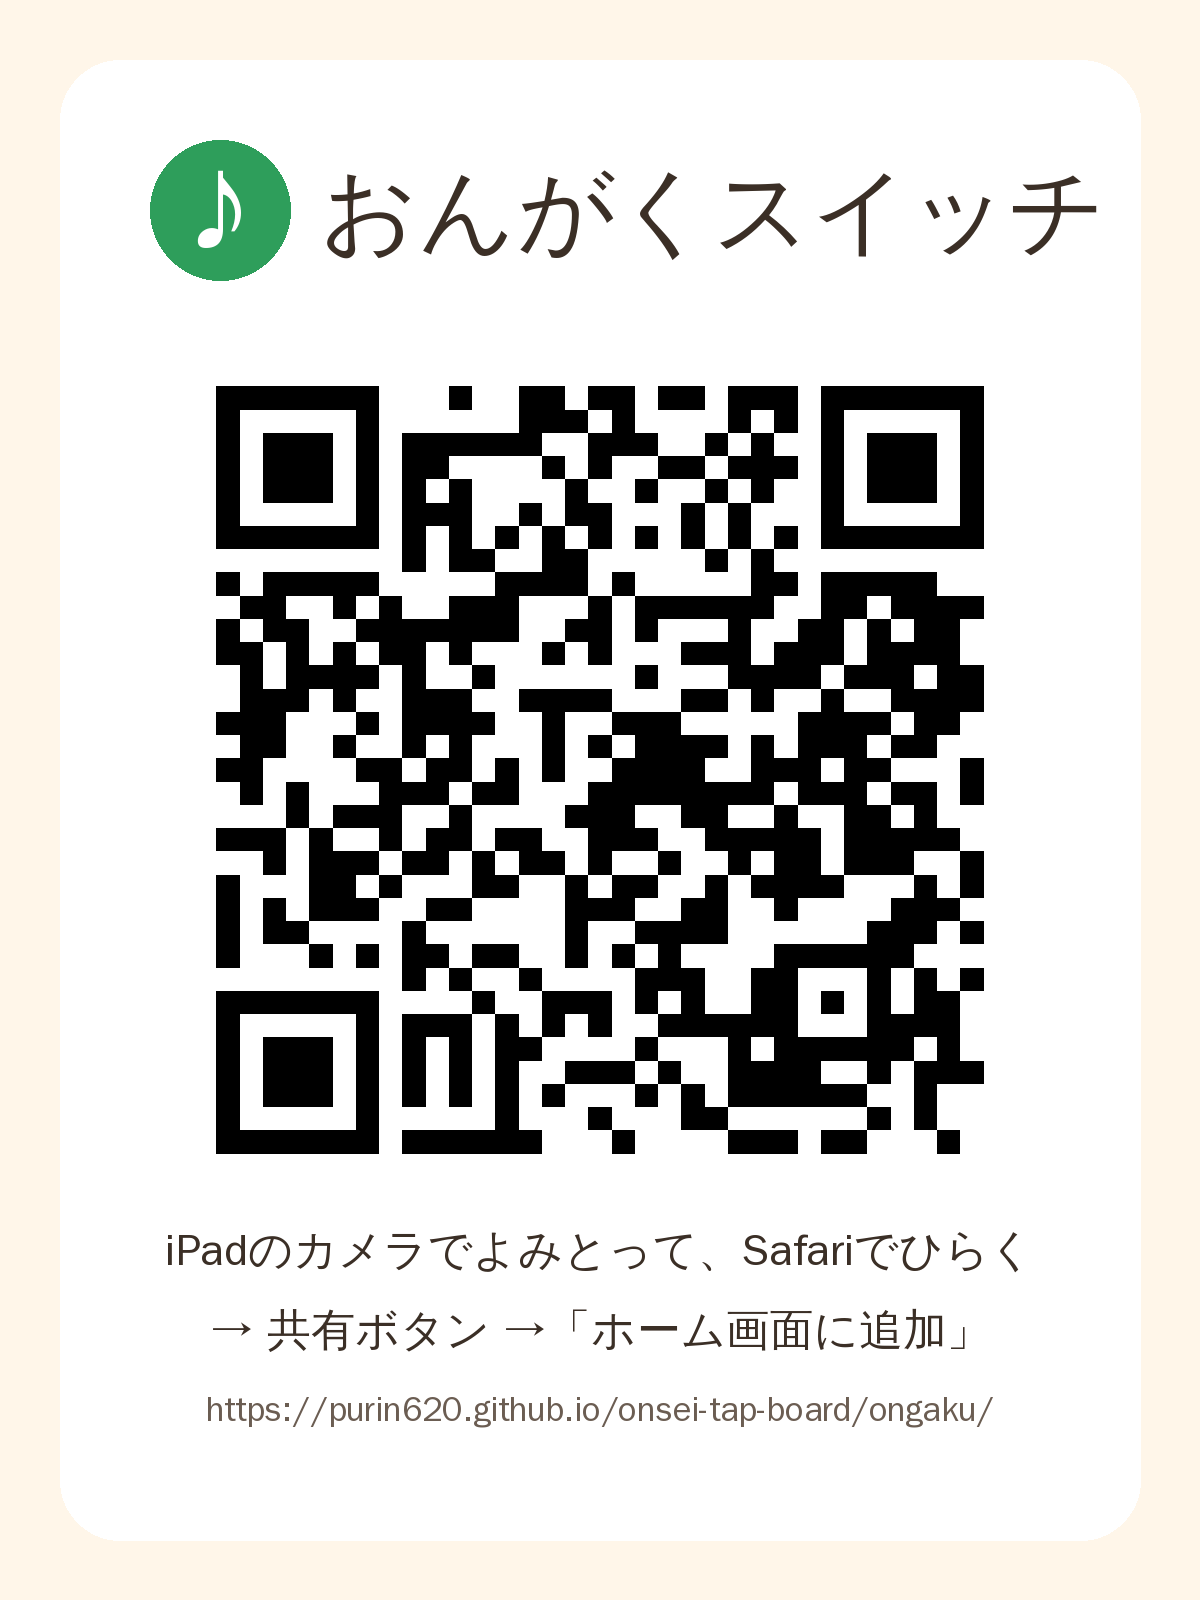
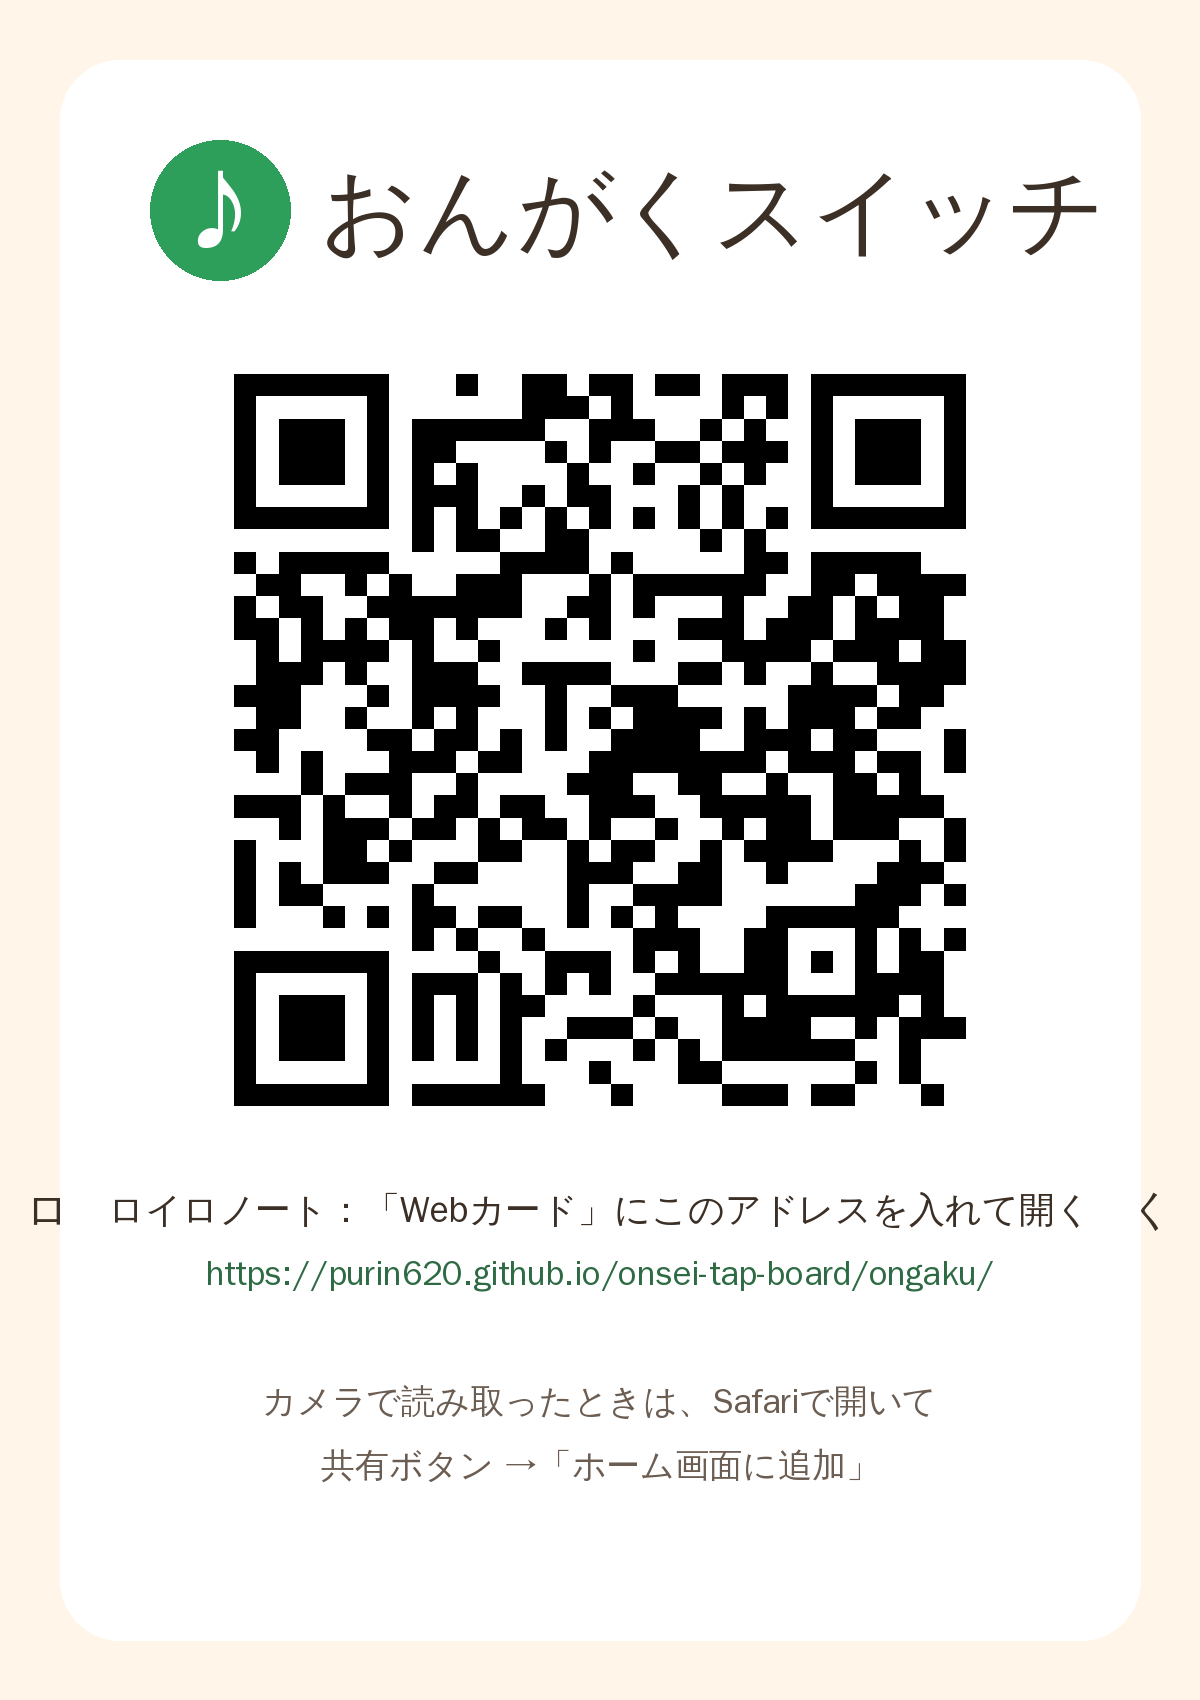
Safariが使えない端末（ロイロノートで開く）に対応
- ファイル保存は共有シートを先に試し、だめならダウンロード
- 記録一覧を画面に表示してコピーできるようにした
- アプリの中のブラウザで開いたときに開始画面で案内
- 起動が終わるまで学習スタートを押せないようにした
- ロイロノートでの開き方を導入手順・QRカードに追記

Claude-Session: https://claude.ai/code/session_01TQbS8yvS6roj2yWssYE9fH

diff --git a/ongaku/js/records.js b/ongaku/js/records.js
@@ -1,7 +1,7 @@
 // 学習記録：一覧・グラフ・CSV出力
 import * as DB from './db.js';
 import { S, MODES, OBS, FUNCS, esc, toast, scheduleSave } from './app.js';
-import { saveFile, confirmDlg, fmtDate, fmtClock, dayKey } from './ui.js';
+import { saveFile, confirmDlg, fmtDate, fmtClock, dayKey, showTextForCopy } from './ui.js';
 
 const EV_LABEL = {
   input: 'スイッチ入力', play: '再生', stop: '停止', 'auto-stop': '自動停止', next: '曲送り', prev: '前の曲',
@@ -70,8 +70,9 @@ export async function renderRecords(body, { rerender }) {
     <div class="field">
       <button class="btn" data-act="csv">記録一覧をCSVで保存</button>
       <button class="btn" data-act="csvlog">操作ログをCSVで保存</button>
+      <button class="btn small" data-act="csvtext">記録一覧を画面に表示（コピー用）</button>
     </div>
-    <p class="note">CSVはExcelで開けます（文字化けしない形式）。iPadでは「ファイル」アプリの「ダウンロード」に入ります。</p>
+    <p class="note">CSVはExcelで開けます（文字化けしない形式）。共有の画面が出たら「"ファイル"に保存」などを選びます。ロイロノートの中で開いていて保存できないときは「画面に表示（コピー用）」を使ってください。</p>
   </div>
   <div class="sec"><h3>回数の推移（記録のある日、新しい14日分）</h3>
     ${dayRows.length ? chartHtml(dayRows.slice(0, 14).reverse()) : '<p class="empty">まだ記録がありません。</p>'}
@@ -94,6 +95,10 @@ export async function renderRecords(body, { rerender }) {
     if (a) {
       if (a.dataset.act === 'csv') await exportCsv(list);
       if (a.dataset.act === 'csvlog') await exportLogCsv(list);
+      if (a.dataset.act === 'csvtext') {
+        if (!list.length) { toast('記録がありません'); return; }
+        await showTextForCopy('記録一覧（CSV）', csvText(summaryRows(list)));
+      }
       return;
     }
     // 観察記録の ＋／−
@@ -227,14 +232,18 @@ function csvCell(v) {
   const s = String(v ?? '');
   return /[",\n\r]/.test(s) ? '"' + s.replace(/"/g, '""') + '"' : s;
 }
+function csvText(rows) { return rows.map((r) => r.map(csvCell).join(',')).join('\r\n'); }
 function csvBlob(rows) {
-  const text = rows.map((r) => r.map(csvCell).join(',')).join('\r\n');
-  return new Blob(['' + text], { type: 'text/csv;charset=utf-8' }); // BOM付き＝Excelで文字化けしない
+  return new Blob(['' + csvText(rows)], { type: 'text/csv;charset=utf-8' }); // BOM付き＝Excelで文字化けしない
 }
 function stamp() { const d = new Date(); return `${d.getFullYear()}${String(d.getMonth() + 1).padStart(2, '0')}${String(d.getDate()).padStart(2, '0')}`; }
 
 async function exportCsv(list) {
   if (!list.length) { toast('記録がありません'); return; }
+  await saveFile(csvBlob(summaryRows(list)), `おんがくスイッチ_記録一覧_${stamp()}.csv`);
+}
+
+function summaryRows(list) {
   const head = ['児童', '実施日', '開始時刻', '終了時刻', '学習時間（分）', '学習モード', 'プレイリスト', 'スイッチ入力回数', '有効な操作回数', '再生回数', '停止回数', '自動停止回数', '曲送り回数', '再生した曲', ...OBS.map(([, l]) => l), 'メモ'];
   const rows = [head];
   for (const ses of [...list].sort((a, b) => a.startAt - b.startAt)) {
@@ -243,7 +252,7 @@ async function exportCsv(list) {
       m.inputs, m.valid, m.plays, m.stops, m.autoStops, m.nexts, Object.entries(m.songs).map(([n, c]) => `${n}(${c})`).join(' / '),
       ...OBS.map(([k]) => (ses.obs && ses.obs[k]) || 0), ses.memo || '']);
   }
-  await saveFile(csvBlob(rows), `おんがくスイッチ_記録一覧_${stamp()}.csv`);
+  return rows;
 }
 
 async function exportLogCsv(list) {

diff --git a/ongaku/js/ui.js b/ongaku/js/ui.js
@@ -32,9 +32,23 @@ export function promptDlg(title, value = '', placeholder = '') {
   }).then((v) => (v ? v : null));
 }
 
-// ファイルとして保存（iPadでは「ファイル」アプリの「ダウンロード」に入る。共有シートが使えればそちらも可）
+// ファイルとして保存
+// ・共有シートが使えるとき（iPad / iPhone）：共有シートを出す →「"ファイル"に保存」やロイロノートへ送れる
+// ・使えないとき：ダウンロード（iPadでは「ファイル」アプリの「ダウンロード」フォルダ）
 export async function saveFile(blob, filename) {
-  const file = typeof File === 'function' ? new File([blob], filename, { type: blob.type }) : null;
+  let file = null;
+  try { file = new File([blob], filename, { type: blob.type || 'application/octet-stream' }); } catch { /* 古い環境 */ }
+  if (file && navigator.canShare && navigator.share) {
+    try {
+      if (navigator.canShare({ files: [file] })) {
+        await navigator.share({ files: [file], title: filename });
+        return 'shared';
+      }
+    } catch (e) {
+      if (e && e.name === 'AbortError') return 'cancel'; // 先生がとじた
+      // 時間がかかって共有シートが出せなかったときなどは、ダウンロードに切り替える
+    }
+  }
   const url = URL.createObjectURL(blob);
   const a = document.createElement('a');
   a.href = url; a.download = filename;
@@ -42,7 +56,23 @@ export async function saveFile(blob, filename) {
   a.click();
   a.remove();
   setTimeout(() => URL.revokeObjectURL(url), 60000);
-  return file;
+  return 'download';
+}
+
+// 文字を画面に表示してコピーできるようにする（ファイルの保存ができない環境むけ）
+export function showTextForCopy(title, text) {
+  return dialog(`<h3>${esc(title)}</h3>
+    <p class="note">ファイルとして保存できないときに使います。「コピー」を押して、Excel・Numbers・ロイロノートのテキストカードなどに貼り付けてください。</p>
+    <textarea readonly style="height:40vh;font-family:ui-monospace,Menlo,monospace;font-size:13px">${esc(text)}</textarea>
+    <div class="foot"><button class="btn" data-close="">とじる</button><button class="btn primary" data-copy>コピー</button></div>`,
+  (box) => {
+    const ta = box.querySelector('textarea');
+    box.querySelector('[data-copy]').addEventListener('click', async (e) => {
+      try { await navigator.clipboard.writeText(text); }
+      catch { ta.focus(); ta.select(); try { document.execCommand('copy'); } catch { /* 手動でコピー */ } }
+      e.target.textContent = 'コピーしました';
+    });
+  });
 }
 
 export function fmtTime(sec) {

diff --git a/ongaku/index.html b/ongaku/index.html
@@ -44,11 +44,12 @@
     </label>
     <div id="startInfo" class="info"></div>
     <p id="startNoSongs" class="warn" hidden>まだ曲がありません。「先生用の設定」→「音楽」から曲を追加してください。</p>
-    <button id="startGo" class="go" type="button">学習スタート</button>
+    <button id="startGo" class="go" type="button" disabled>学習スタート</button>
     <div class="sub">
       <button id="startSettings" type="button">先生用の設定</button>
       <button id="startFull" type="button" hidden>全画面にする</button>
     </div>
+    <p id="startInApp" class="hint" hidden>ロイロノートなどのアプリの中で開いています。インターネットにつながっているときに使ってください。曲や記録は、このアプリの中に保存されます。</p>
     <p class="hint">学習中に設定を開くときは、画面の右下の歯車を1.5秒ほど長押しします。</p>
   </div>
 </section>

diff --git a/ongaku/js/app.js b/ongaku/js/app.js
@@ -4,7 +4,7 @@ import { Player } from './player.js';
 import { InputManager } from './input.js';
 import { sampleFiles } from './samples.js';
 
-export const VERSION = '1.2.0';
+export const VERSION = '1.3.0';
 
 // ---- 学習モード・機能の名前 -------------------------------------------
 export const MODES = {
@@ -596,6 +596,8 @@ export function renderStart() {
   const sel = $('#startStudent');
   sel.innerHTML = S.students.map((x) => `<option value="${x.id}" ${x.id === s.studentId ? 'selected' : ''}>${esc(x.name)}</option>`).join('');
   $('#startGo').disabled = !list.length;
+  // Service Worker が使えない＝ロイロノートなどアプリの中のブラウザで開いている可能性が高い
+  $('#startInApp').hidden = 'serviceWorker' in navigator;
   $('#startNoSongs').hidden = !!list.length;
 }
 

diff --git a/ongaku/sw.js b/ongaku/sw.js
@@ -1,6 +1,6 @@
 // オフライン用：アプリの部品を端末に保存しておき、通信がなくても開けるようにする。
 // アプリを更新したときは VERSION の数字を変える。
-const VERSION = 'ongaku-v1.2.0';
+const VERSION = 'ongaku-v1.3.0';
 const FILES = [
   './',
   './index.html',

diff --git a/ongaku/docs/DEVLOG.md b/ongaku/docs/DEVLOG.md
@@ -1,5 +1,14 @@
 # 開発記録
 
+## 2026-11-26　バージョン 1.3.0（Safariが使えない端末への対応）
+
+- 児童の端末でSafariが使えず、ロイロノートだけが使える、との情報により対応。
+- ファイル保存は、共有シート（`navigator.share`）を先に試し、だめならダウンロードにする（`ui.js` の `saveFile`）。
+- 記録一覧を「画面に表示（コピー用）」できるようにした（アプリ内ブラウザでダウンロードできない場合の代わり）。
+- Service Worker が使えない環境（アプリ内ブラウザの可能性が高い）では、開始画面に案内を表示。
+- 起動が終わるまで「学習スタート」を押せないようにした。
+- `tests/inapp.cjs`：Service Worker なしの状態で、起動・再生・コピー用表示を確認（Chromium）。**ロイロノート実機は未確認**。
+
 ## 2026-11-26　バージョン 1.2.0
 
 - お試し用の曲を追加（`js/samples.js`）。きらきらぼし・メリーさんのひつじ・かえるのうた（いずれも著作権の保護期間が終わった童謡のメロディー）を、アプリの中でオルゴール風に合成し、WAV（22050Hz・モノラル、1曲約1.3MB）にして登録する。

diff --git a/ongaku/docs/CHECKLIST.md b/ongaku/docs/CHECKLIST.md
@@ -69,6 +69,16 @@
 - □ スイッチコントロールのレシピ（画面中央をタップ）で操作できる
 - □ アクセスガイドと一緒に使える
 
+### ロイロノートの中で開いたとき
+
+- □ Webカードで開ける（フィルタリングで止められない）
+- □ 開始画面に「アプリの中で開いています」と出る
+- □ お試し用の曲が入っていて、タッチで再生・停止できる
+- □ 外部スイッチ（キー入力）が届く
+- □ ロイロノートを閉じて開き直しても、曲・記録が残っている
+- □ 「ファイル」から曲を追加できる／録音して追加できる
+- □ CSVの保存、または「画面に表示（コピー用）」が使える
+
 ### その他
 
 - □ 画面を回転しても（縦・横）表示がくずれない
